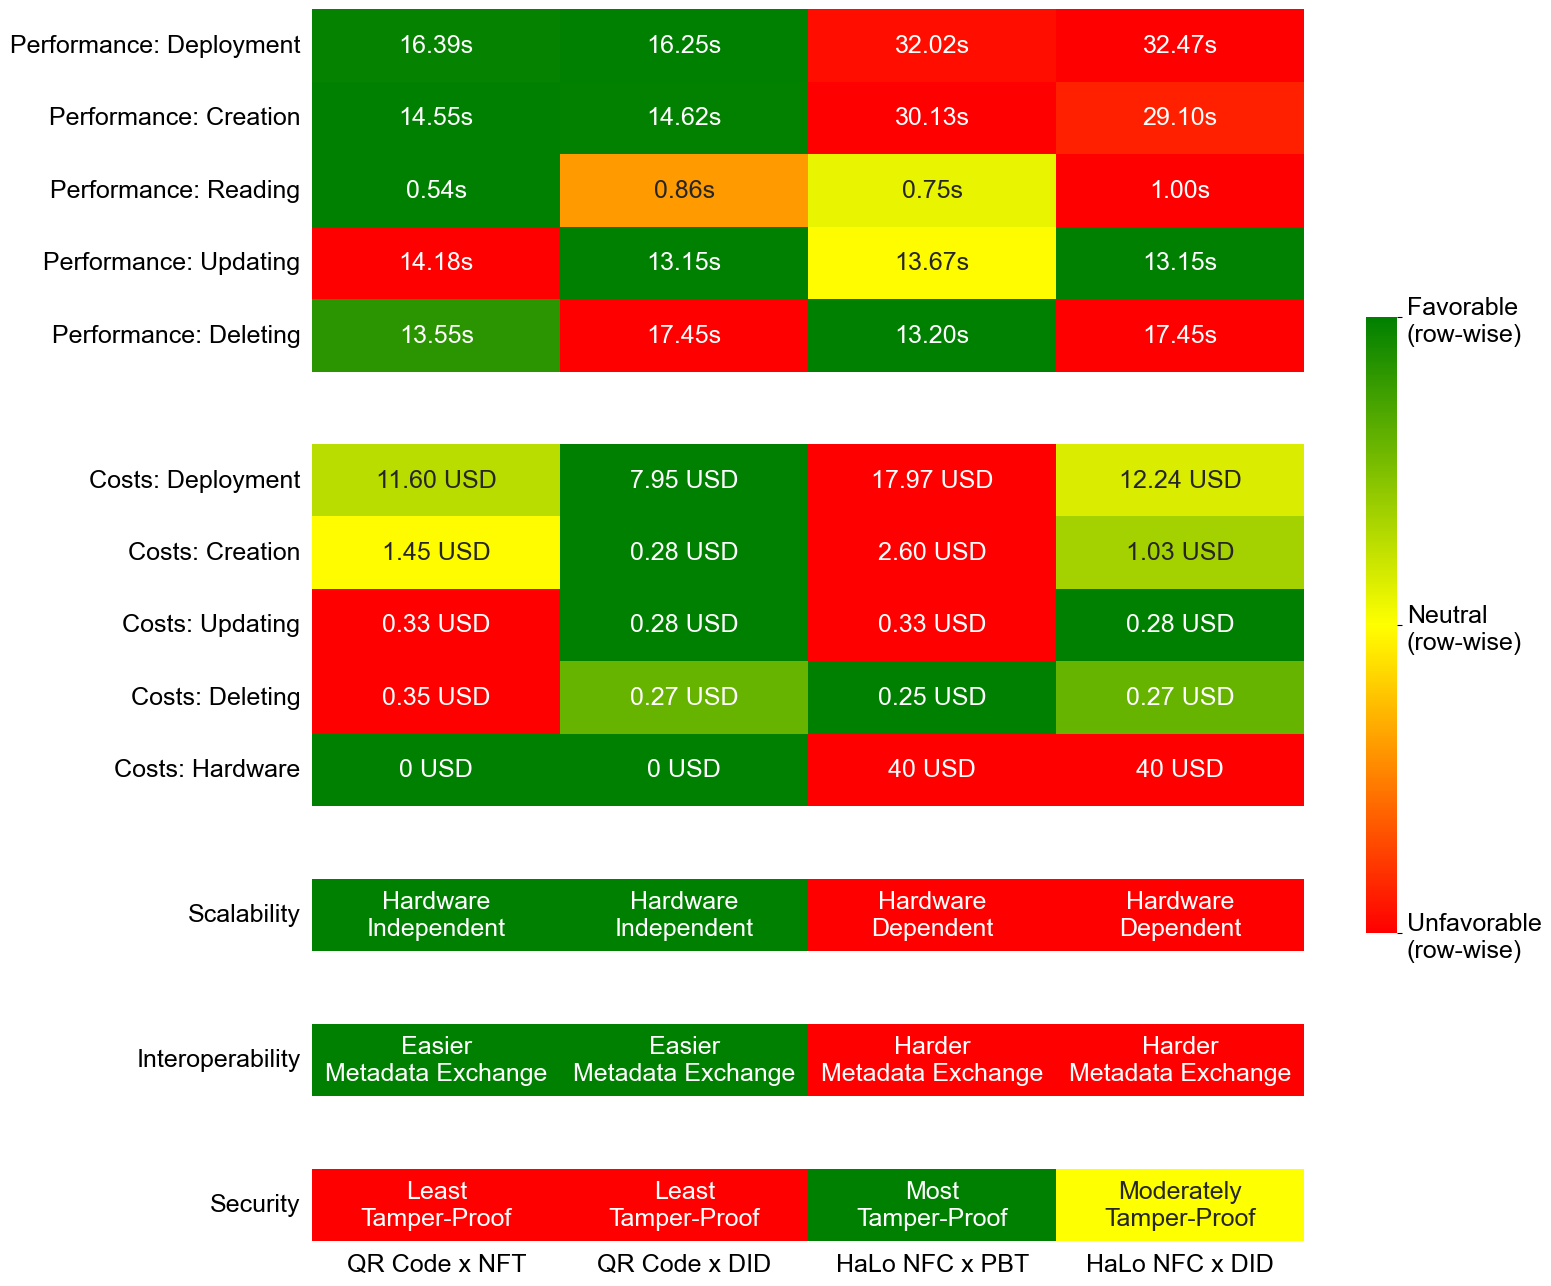
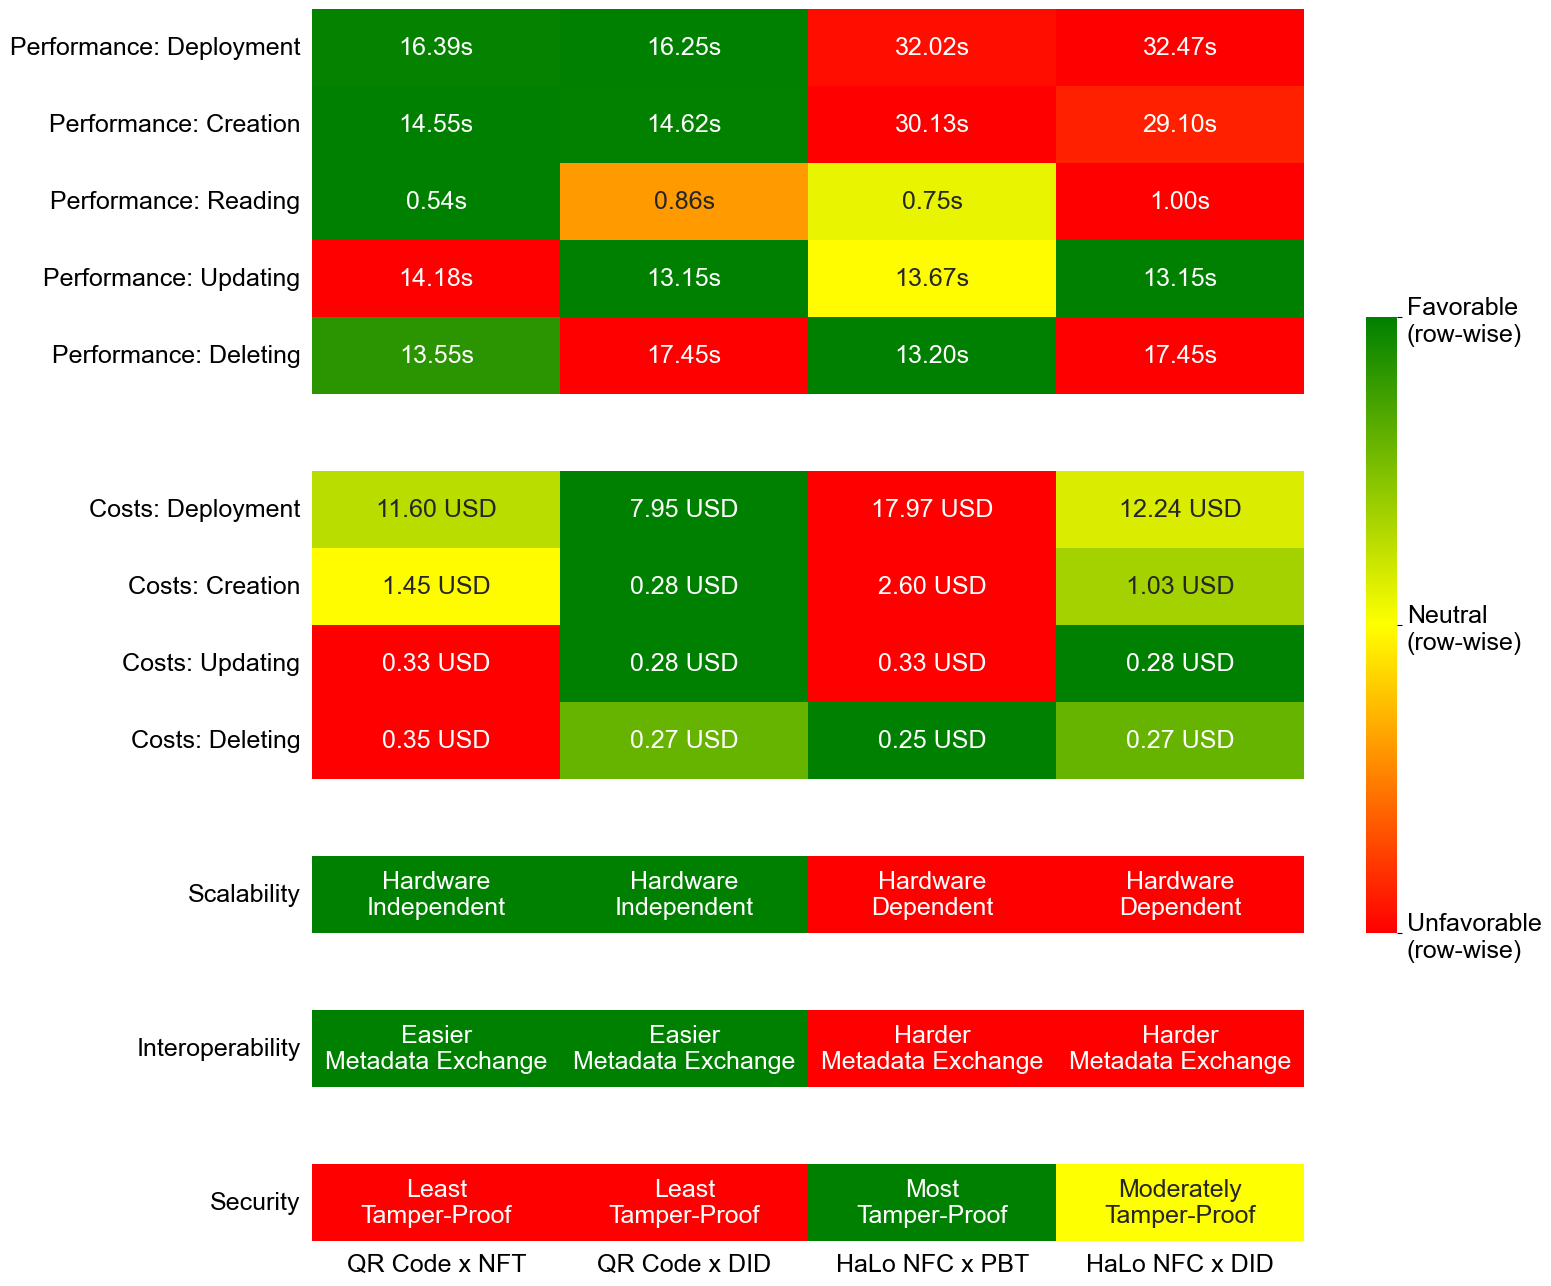
hardware costs removed from plot

diff --git a/evaluation/utils/summary.py b/evaluation/utils/summary.py
@@ -23,7 +23,6 @@ y_labels = [
     "Costs: Creation",
     "Costs: Updating",
     "Costs: Deleting",
-    "Costs: Hardware",
     "",  # Spacer
     "Scalability",
     "",  # Spacer
@@ -43,7 +42,6 @@ data = [
     ["1.45 USD", "0.28 USD", "2.60 USD", "1.03 USD"],
     ["0.33 USD", "0.28 USD", "0.33 USD", "0.28 USD"],
     ["0.35 USD", "0.27 USD", "0.25 USD", "0.27 USD"],
-    ["0 USD", "0 USD", "40 USD", "40 USD"],
     ["", "", "", ""],  # Spacer
     [
         "0 # Hardware\nIndependent",
@@ -84,25 +82,27 @@ def convert_to_numeric(item):
 numeric_data = [[convert_to_numeric(item) * -1 for item in row] for row in data]
 numeric_data = np.array(numeric_data)
 
-normalized_data = np.zeros_like(numeric_data, dtype=float)
-for i in range(numeric_data.shape[0]):
-    min_val = np.nanmin(numeric_data[i])
-    max_val = np.nanmax(numeric_data[i])
-    if min_val != max_val:
-        normalized_data[i] = (numeric_data[i] - min_val) / (max_val - min_val)
-    else:
-        normalized_data[i] = 0.5
-    # Set NaN values to neutral (0.5) for the blank rows
-    normalized_data[i] = np.where(np.isnan(numeric_data[i]), 0.5, normalized_data[i])
-
-mask = np.isnan(numeric_data)
-
-cmap = LinearSegmentedColormap.from_list(
-    "relative_coloring", ["red", "yellow", "green"]
-)
-
 
 def plot_summary():
+    normalized_data = np.zeros_like(numeric_data, dtype=float)
+    for i in range(numeric_data.shape[0]):
+        min_val = np.nanmin(numeric_data[i])
+        max_val = np.nanmax(numeric_data[i])
+        if min_val != max_val:
+            normalized_data[i] = (numeric_data[i] - min_val) / (max_val - min_val)
+        else:
+            normalized_data[i] = 0.5
+        # Set NaN values to neutral (0.5) for the blank rows
+        normalized_data[i] = np.where(
+            np.isnan(numeric_data[i]), 0.5, normalized_data[i]
+        )
+
+    mask = np.isnan(numeric_data)
+
+    cmap = LinearSegmentedColormap.from_list(
+        "relative_coloring", ["red", "yellow", "green"]
+    )
+
     plt.figure(figsize=(16, 16))
     ax = sns.heatmap(
         normalized_data,
